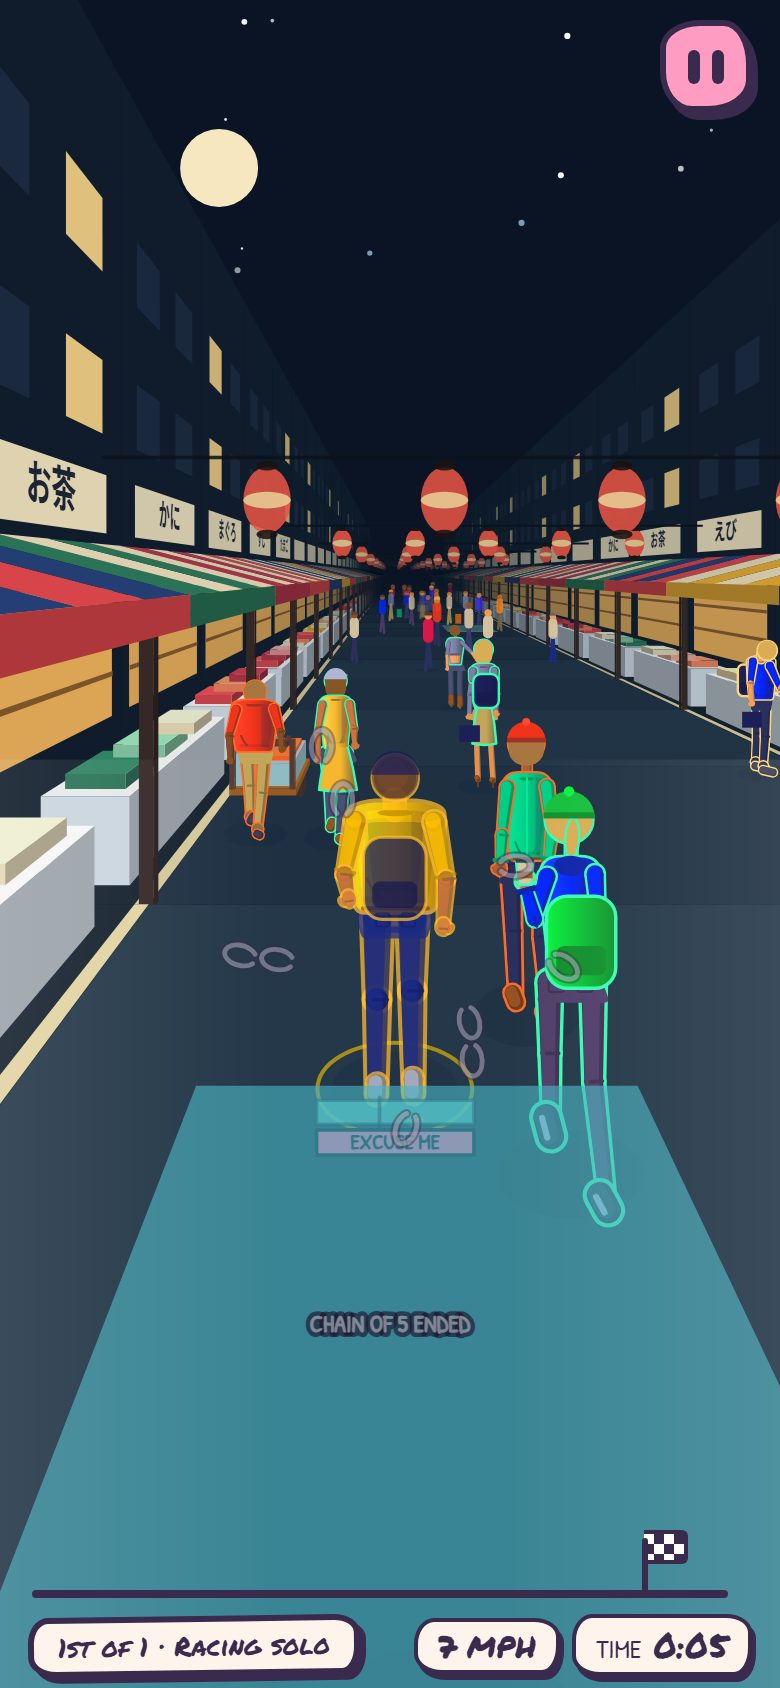
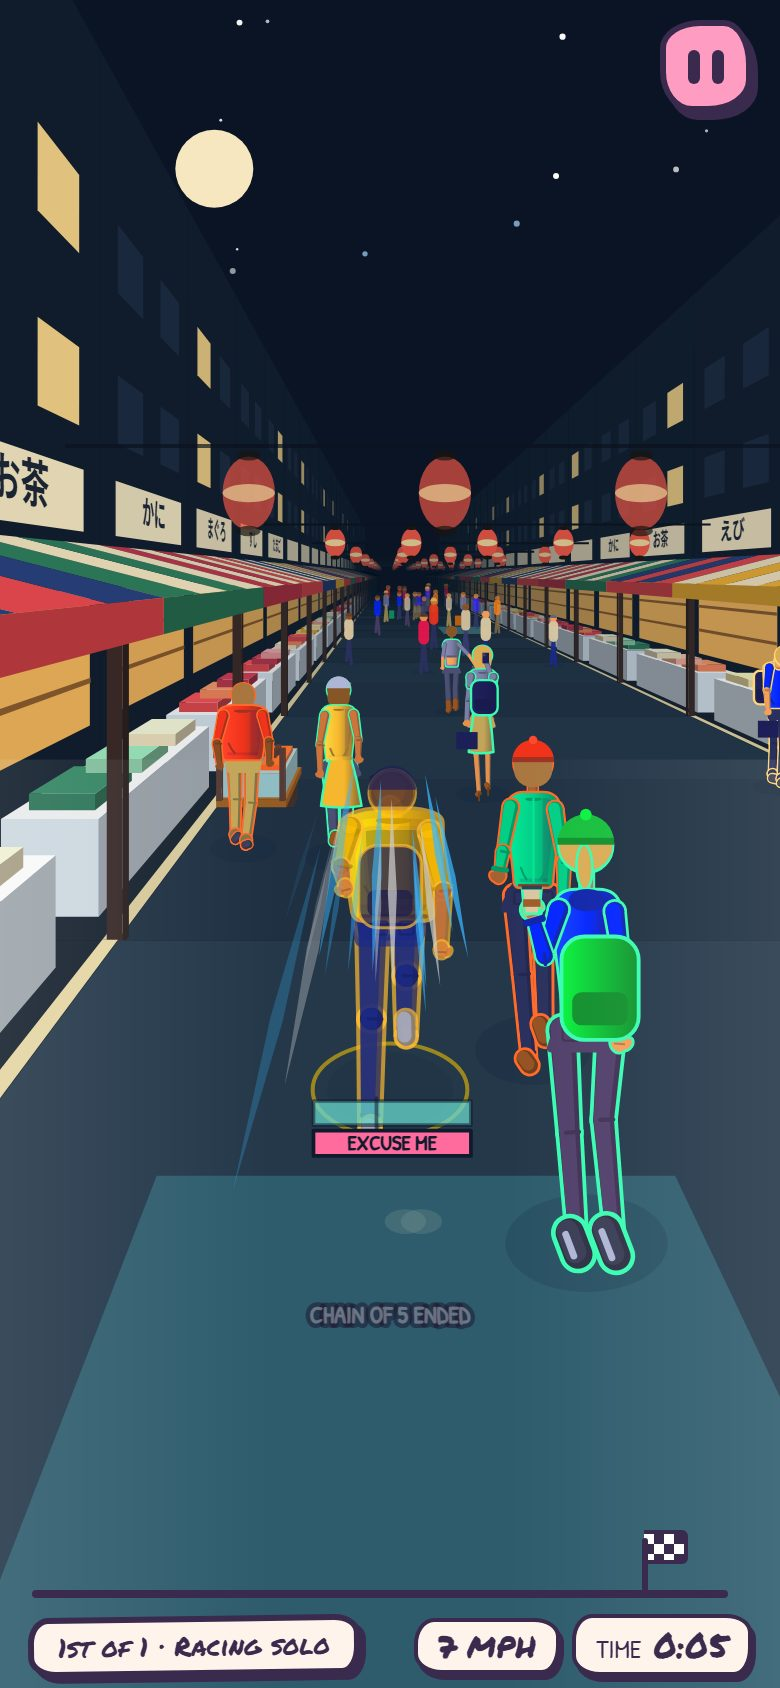
Batch 27 merged: status, notes, kerb jam in todo, re-taken Tsukiji shots

diff --git a/game/status.md b/game/status.md
@@ -15,9 +15,13 @@
 - **Lead fix on develop, not yet seen on screen:** `src/render/render.js` now draws wet patches under everyone, like puddles (they were sorted by their centre and covered the legs of anyone in the far half). Tsukiji and scenery tests 19/19, build and diff check pass. **After the merge, take a screenshot with `batch-27-evidence/feature-shots.mjs` to confirm.** S4 for the Director's eye: the patch reads as a teal mat, not wet concrete.
 - **27e independent review: PASS** (f07db0b on stefanvargas100-hue/stage-features-review, which contains stage-features 8948da4; report `reports/batch-27e-review.md` on that branch; reviewer reports 1059 pass, 0 fail, 2 todo, build and diff check pass; 3 gap tests added, no source changed). All 8 checks reproduced. The reviewer's four findings, with the lead's severities: **S3, owner lead:** crowd people walk through porters' carts (85 of 147 porters in 20 bot races; avoidance treats a porter as a 0.25 m point, `src/sim/crowd.js:99`; no result changes). **S4:** Tsukiji gold target 92 is tight against a Hard median of 94-96, medal targets otherwise not clearly wrong. Two test gaps (lift bump, boards test compared positions only) are closed by the reviewer's tests. The new Baggage slip-through is the old `queue` event, not a batch 27 feature.
 - **Director decisions 2026-11-15:** (1) keep the record identities on Tsukiji, Skytree and Baggage; (2) fix the cart walk-through first, then push.
-- **Running: 27f cart avoidance**, same builder (Claude Opus, workspace stage-features), brief `batch-27f-cart-avoidance.md`, dispatch ctx_52b80c80ab58 (task_534a033c2f9e), confirmed live after the Orca restart. It merges the review branch into stage-features first. Nothing is merged into develop yet.
-- **Next action, when 27f reports:** review the diff (only Tsukiji may change; `src/sim/crowd.js` avoidance is shared, so confirm the fixture test and the unedited hashes for stages 0-6 and 8, and that the reviewer's tests were not edited: `git diff f07db0b -- test/batch27e-review.test.js` is empty). No third review unless the diff is larger than porter handling. Then merge stefanvargas100-hue/stage-features into develop, run the full suite, build and diff check, take a Tsukiji screenshot with `batch-27-evidence/feature-shots.mjs` to confirm the wet patch now draws under people, remove the stage-features and stage-features-review workspaces and branches, and ask the Director before pushing to the playtest. Then write the round's notes for batch 27 (worker token use where shown, two stop-and-ask cycles, three follow-ups 27c/27d/27f).
-- **Lead handover due:** this session is past 100K context. A fresh lead continues from here.
+- **Lead handed over** 2026-11-15: a fresh lead session took over here.
+- **27f done** (4a48d02): people steer round a porter's whole body and cart, nobody is created on one, standing shoppers step aside. Lead ruling `batch-27f-reply.md`: accept a second Tsukiji slip-through (seed 4, a walker jammed at the kerb by a bot's bumps, no porter within 17 m; S3 in `game/todo.md`) and two one-tick kerb nudges (S4).
+- **Batch 27 merged into develop** (644c1e2), local only, not pushed. Lead checks on the merge: full suite 1064 tests, 1062 pass, 0 fail, 2 todo; build and diff check pass; `porter-overlap.js` rerun, 0 of 112 porters touched, open side at least 2.16 m; 27f source diff read in full (porters only, nothing reads the racer, reviewer's tests and `test/security.test.js` unedited). Emulated 390x844 shots re-taken: the wet patch now draws under people (the earlier lead fix is confirmed). Not rerun by the lead: the 20-seed bot sweep and medians. No real phone.
+- stage-features and stage-features-review workspaces and branches removed. **No workers running.**
+- Notes for the round report: `game/rounds/round-02/batch-27-notes.md` (builder session reached 448K context over three follow-ups).
+- **Waiting on the Director:** (1) push develop to the playtest link (batch 27, PROTO 15); (2) whether a follow-up goes to a fresh worker once the builder's context passes a set size (see the notes).
+- **Next action:** on approval, push develop, then verify as before (Tests run and Pages run succeeded for the pushed SHA; playtest HTML 200 and `assets/main.js` contains the short SHA). Then the Director's phone playtest of the four stages.
 - **For the Director before merge:** Tsukiji, Skytree and Baggage records are no longer strictly comparable (race best, Classic best, ghosts, `race:<id>_r2` boards); no identity changed. Lead recommendation: keep the identities, because these stages are not on `main`, so the only such records are in playtest saves, and Daily/Weekly use the first five stages only. Rooms need matching builds (PROTO 15).
 - Lead mistakes from this batch are logged in `game/failures.md`, with three new lines in `game/areas/gameplay.md` (events are solo and bot-race only; chunks start at 14 m; crowd hashes are pinned).
 

diff --git a/game/failures.md b/game/failures.md
@@ -27,6 +27,7 @@ Problems the lead caused, why they got through, and what now prevents them. Upda
 | Plan raised `PROTO` but listed only stage-list tests as editable | Worker correctly went off plan, and the online plan repeated the gap until corrected | Did not search tests for the value being changed | Plan check 4, extended to values that tests hard-code. Batch 27 repeated it with the crowd hashes in `test/security.test.js` (one stop-and-ask cycle); now also a line in `game/areas/gameplay.md` | 3 |
 | Batch 27 plan said friend rooms get every feature, but events never run in rooms | Worker built the lift and gate-change boards as events, correctly, and had to report that the plan could not be met; Director accepted the gap | Lead did not check where `runEvent` is called before writing the fairness rule | Line in `game/areas/gameplay.md`: events are solo and bot-race only, and a plan says where each feature runs | 1 |
 | Batch 21 review passed Tsukiji wet patches that never appear in a real run | The feature has been missing from every playtest build since 2026-11-12; batch 27 needed an extra cycle (27c) to fix it | Tests built chunks from 0 and the lead looked at screenshots without checking that each planned feature was on screen in a real run | Line in `game/areas/gameplay.md` on chunk numbering; 27c adds a test on a real-run course. Lead review: find each planned feature in a real-run screenshot | 1 |
+| Batch 27f brief capped Tsukiji bot slip-throughs at the current count (1), a number that moves whenever people walk somewhere else | Worker met every porter target, then had to stop and ask about a second slip-through its change did not cause (a walker jammed at the kerb, no porter within 17 m) | Treated a 20-seed count as a stable limit without asking what else can move it | Line in `game/areas/gameplay.md`: do not cap the count; trace each new slip-through and fail only those the batch's feature causes. Untested until the next plan | 1 |
 | Ran 3 Claude workers at once, 2 on Opus, while the lead's own context averaged 220K | Friend Cup online stopped at the Claude 5-hour limit; its work was saved as a WIP commit | Tracked Codex limits but not Claude's, and treated the lead's own long context as free | Check Claude usage from the session logs before starting Claude workers; hand over to a fresh lead before context grows past about 100K | 1 |
 | Started a Codex worker to redo a batch the paused Claude worker then finished | Duplicate worker stopped within minutes with no unique work; a few Codex tokens lost | Assumed a worker stopped at the usage limit stays stopped. It resumes by itself after the reset | Before replacing a paused worker, stop it with `orca orchestration worker-stop` first | 1 |
 | Plan used `--effort` without `--model` | Worker start was refused | Assumed the flag worked alone | Plan check 3 | 1 |

diff --git a/game/rounds/round-02/batch-27-notes.md b/game/rounds/round-02/batch-27-notes.md
@@ -1,0 +1,27 @@
+# Round 02, batch 27: lead notes for the round report
+
+Written 2026-11-15 by the lead after the merge (644c1e2).
+
+## What it took
+- **Briefs:** 27 (build), 27b (hash ruling), 27c (wet patches), 27d (porter notch ruling), 27e (independent review), 27f (cart avoidance), 27f reply (second slip-through). All in this folder.
+- **Stop-and-ask cycles: 3.** Two before 27f, as recorded by the previous lead in `game/status.md` (27b, crowd hashes not listed as editable, is one; this lead did not trace the other). The third is 27f's slip-through cap (lead mistake, logged in `game/failures.md`).
+- **Follow-ups to the same builder: 3** (27c, 27d, 27f). One independent review (27e), PASS, 3 gap tests, no fix cycle from it.
+
+## Token use, from the Claude session logs
+| Worker | Model | Model calls | Output | Cache read | Largest context |
+|---|---|---|---|---|---|
+| Builder (27, 27c, 27d, 27f) | Opus 5.5 | 204 | 201K | 60.0M | 448K |
+| Reviewer (27e) | Sonnet 5.5 | 69 | 73K | 9.7M | 198K |
+
+- The builder averaged about 295K of context per call. Each follow-up went to the same session, so every later call resent everything before it. The playbook's "send fixes back to the same worker" saves a cold start, but by 27f the session was more than four times the lead's own 100K handover limit.
+- **Question for the Director (changes how workers operate, so not decided here):** give workers the lead's rule, so a follow-up goes to a fresh worker once the builder's context passes a set size (for example 200K), with the report as its brief.
+
+## Lead checks on merged develop
+- Full suite 1064 tests: 1062 pass, 0 fail, 2 todo. Build and diff check pass.
+- `porter-overlap.js` rerun by the lead: 0 of 112 porters touched, smallest open side 2.16 m, 2 jumps.
+- Diff read in full for 27f (`src/sim/crowd.js`, `src/sim/people.js`): every new branch needs a porter, nothing reads the racer, the reviewer's tests and `test/security.test.js` are unedited since f07db0b.
+- Screens, emulated 390x844, not a phone: `tsukiji-porter.jpg` and `tsukiji-wetpatch.jpg` re-taken after the merge. The wet patch now draws under the player and walkers.
+- Reported by the builder, not rerun by the lead: the 20-seed bot sweep (all finish, 2 slip-throughs) and the medians.
+
+## Left open
+`game/todo.md`: the bump-and-kerb jam (S3), and three S4 items (patch looks like a mat, two kerb nudges, tight Tsukiji gold target).

diff --git a/game/todo.md b/game/todo.md
@@ -1,6 +1,8 @@
 # To-do
 
 ## Current follow-ups - 2026-11-10
+- Gameplay owner lead, S3, not scheduled (new 2026-11-15, from batch 27f): bump-and-kerb jam on every stage. A walker against the kerb takes a bot's repeated bumps (`shove` in `src/sim/race.js`, +1.6 m/s each), its sideways speed into the kerb builds (3.67 m/s seen), and the bot behind is pinned until the stuck rule lets it slip through. Seen on Tsukiji seed 4, t 104.2 s, z 352.5: `node game/rounds/round-02/batch-27-evidence/bot-sweep.js tsukiji`. A fix touches bot or crowd movement on all 12 stages, so it needs its own batch and re-taken hashes.
+- Visual owner lead, S4 (new 2026-11-15, batch 27): the Tsukiji wet patch reads as a teal mat, not wet concrete (`wetpatch` in `src/render/figures.js`). Two one-tick sideways nudges (0.3 to 0.5 m) of people at the kerb just ahead of a kerb-lane cart: seed 19, t 24.8 s, z 74.6; seed 13, t 108.2 s, z 338.0. Tsukiji gold target 92 is tight against a Hard bot median of 93-94.
 - Online owner, not scheduled (new 2026-11-14): friend rooms never run stage events (`!S.duel` in `src/sim/game.js`), so delivery trucks, bag spills, tour groups, viewpoints and batch 27's Skytree lift and Gate Change boards appear only in solo runs and bot races. Director accepted this for now. Running events in rooms needs a one-page spec, a second review and a `PROTO` bump.
 - Lead/visual owner, S3 (new 2026-11-12): at 320x568 with 8 players the host Friend Cup status (#friendStatus) overflows by 39.67px and the lobby card by 70px (baseline 21px), after batches 18-19 lengthened status/preset text. Start stays reachable. Seen in lead fit run after merging batch 19. Batch 19c S4 notes (unused CUP_RACES imports, cupFromMessage not pinned to agreed preset pre-race) are logged in reports/batch-19c-review.md.
 - Lead/visual owner, S3: narrow customization item captions overlap card borders in batch-17d 320px extrema screenshots. Builder identifies existing cramped labels; independent 17f review must distinguish inherited/new. Include actual-size label readability in the queued visual pass.

diff --git a/game/areas/gameplay.md b/game/areas/gameplay.md
@@ -20,6 +20,7 @@ Rules, modes, scoring, progress and saves.
 - **Stage events are solo and bot-race only.** `runEvent` never runs in friend rooms (`!S.duel` in `src/sim/game.js`). Only crowd made in `genChunk` appears in rooms, so a plan must say where each feature runs.
 - **Real runs start chunks at 14 m and step by 4 m.** Place things by chunk number (`Math.floor(z0 / 4)`), never by `z0 % n`, and test placement on a course built the way a real run builds it, not from chunk 0.
 - **Crowd hashes are pinned.** `test/security.test.js` pins the crowd of stages 0-8. A plan that changes a stage's crowd must list that test as editable for those stages.
+- **Bot slip-through counts are noisy.** Over 20 seeds the count moves by 1 or 2 whenever a crowd rule changes where people walk. A plan should not cap the count; it should ask for every new slip-through to be traced to its cause, and fail only those the batch's own feature causes.
 - **Pay once.** Rewards go inside the once-per-run `scored` guard, so a redrawn results screen cannot pay twice.
 - **Shared boundaries:** `halfAt` in `src/config/levels.js` is used by both movement and scenery. The player, bots and crowd must agree on it.
 
